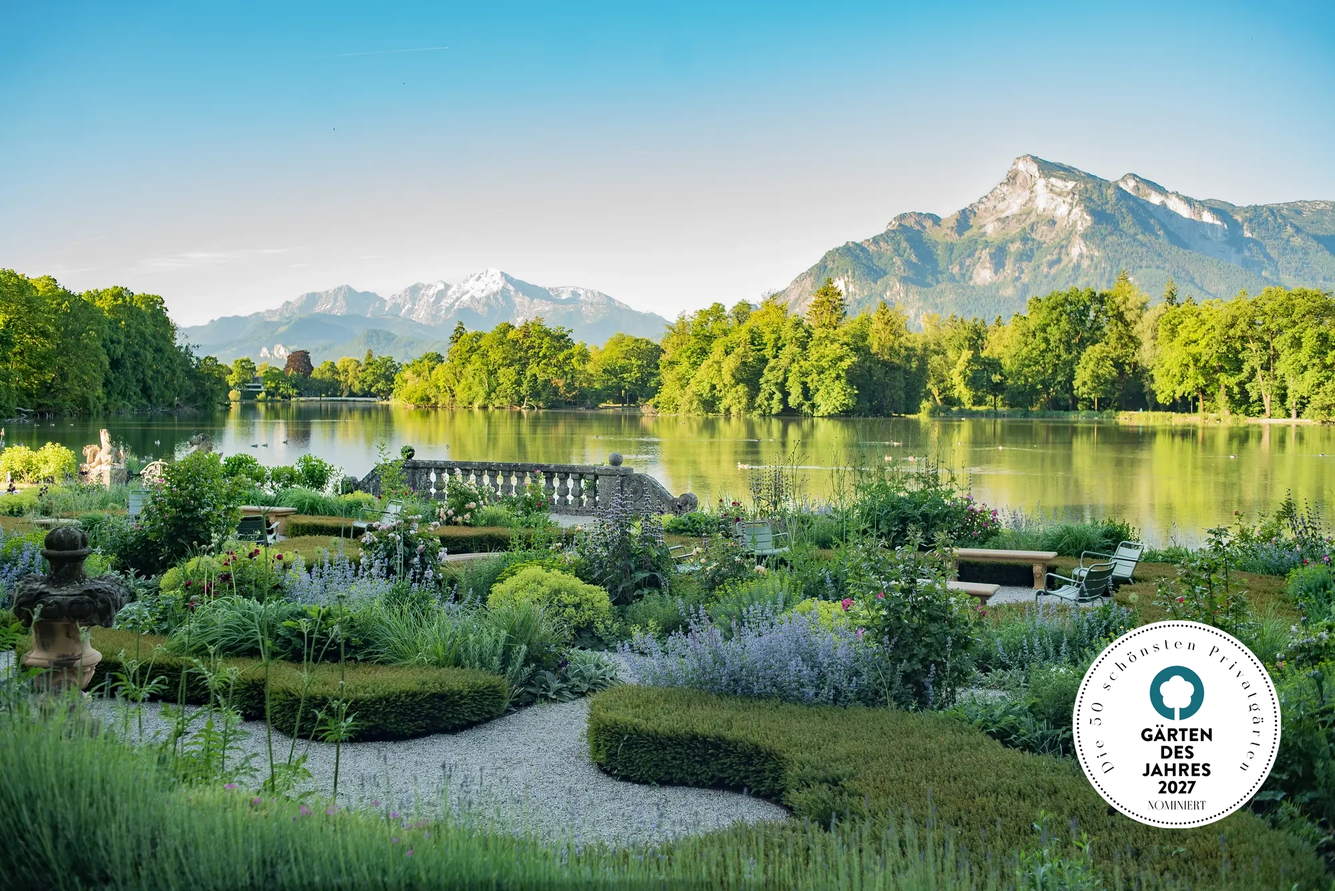
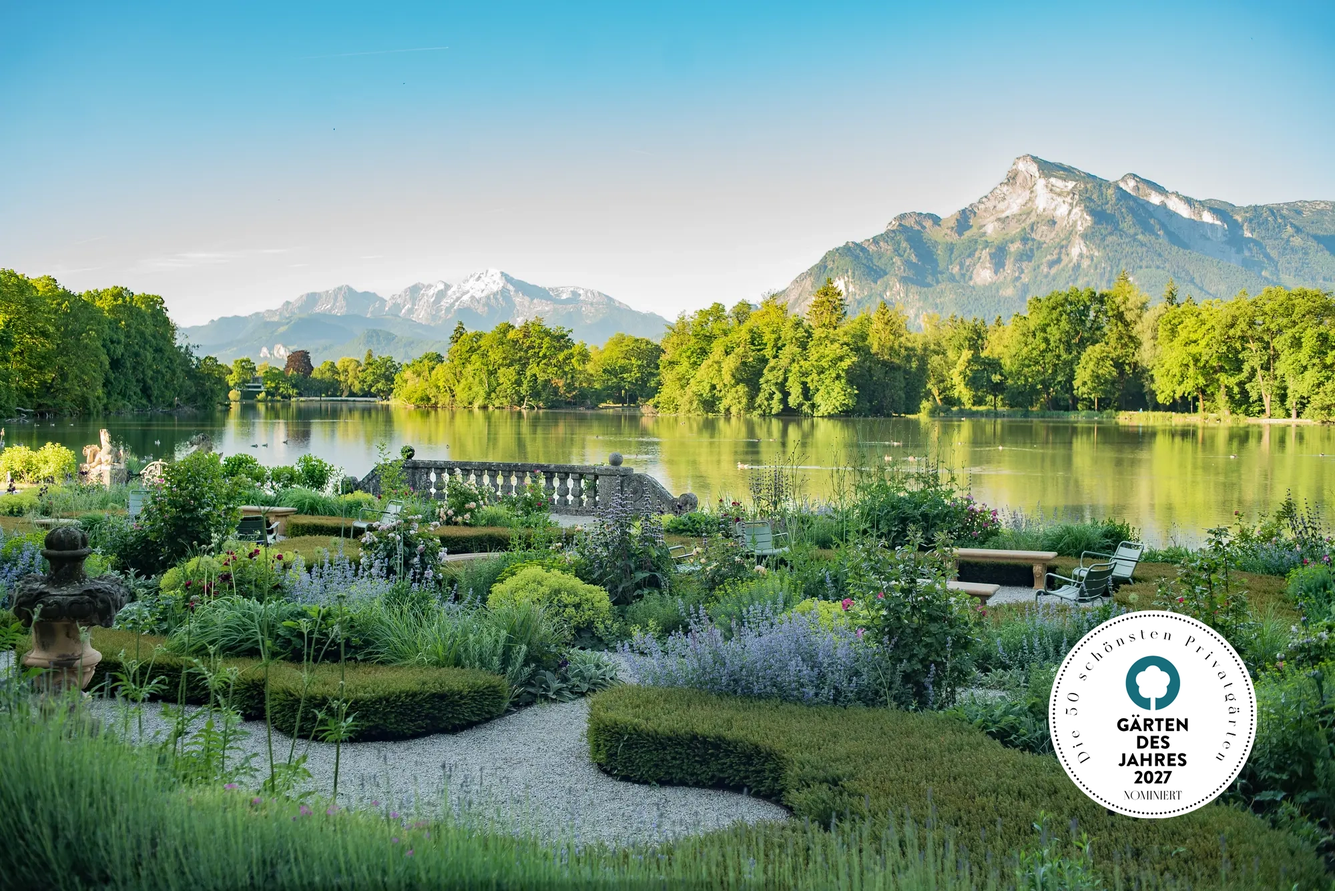
Update Gärten “salzburg-schlossgarten” +3

Changed region(s): [[0.775, 0.6751, 0.961, 0.9513]]

diff --git a/src/gaerten/de/salzburg-schlossgarten.md b/src/gaerten/de/salzburg-schlossgarten.md
@@ -46,7 +46,7 @@ mainArticle:
     Die barocke Architektur wurde in eine zeitgemäße Gartenkomposition übersetzt. Anstelle des monotonen Kiesparterres prägen heute Rosen und Stauden in lebendigen Farben das Bild. Kranker Buchs wurde durch eine prägende Eibe ersetzt und strukturell neu geordnet. Brunnen und Bänke nach Entwurf von Manuel Wehrle integrieren sich harmonisch.
     Der Schlossgarten zeigt, wie historische Gartenkultur und zeitgenössische Landschaftsarchitektur zusammenwirken können - präzise, respektvoll und mit hoher atmosphärischer Wirkung. In Salzburg wurde so historische Identität mit zeitgemäßer Landschaftsarchitektur und sorgfältiger Gartenplanung verbunden.
   articleFooter:
-    closingImage: ../salzburg-schlossgarten/03_Siegel_GdJ_2027_RGB_Basic_nominiert_500px.png
+    closingImage: /assets/img/03_Siegel_GdJ_2027_RGB_Basic_nominiert_500px.png
     alt: Garten des Jahres 2027
   articleCredits:
     entwurf: Manuel Wehrle

diff --git a/src/gaerten/en/salzburg-schlossgarten.md b/src/gaerten/en/salzburg-schlossgarten.md
@@ -40,7 +40,7 @@ mainArticle:
     Baroque geometry was translated into a modern planting framework. Instead of monotonous gravel, roses and perennials now provide color and seasonal depth. Diseased boxwood was replaced by a defining yew structure, while fountains and benches designed by Manuel Wehrle integrate into the overall composition.
     This castle garden demonstrates how historic identity and contemporary horticultural design can be combined with precision, restraint and long-term quality. In Salzburg, heritage context and contemporary landscape architecture are aligned through precise garden design for representative private gardens.
   articleFooter:
-    closingImage: ../salzburg-schlossgarten/03_Siegel_GdJ_2027_RGB_Basic_nominiert_500px.png
+    closingImage: /assets/img/03_Siegel_GdJ_2027_RGB_Basic_nominiert_500px.png
     alt: Garten des Jahres 2027
   articleCredits:
     entwurf: Manuel Wehrle
